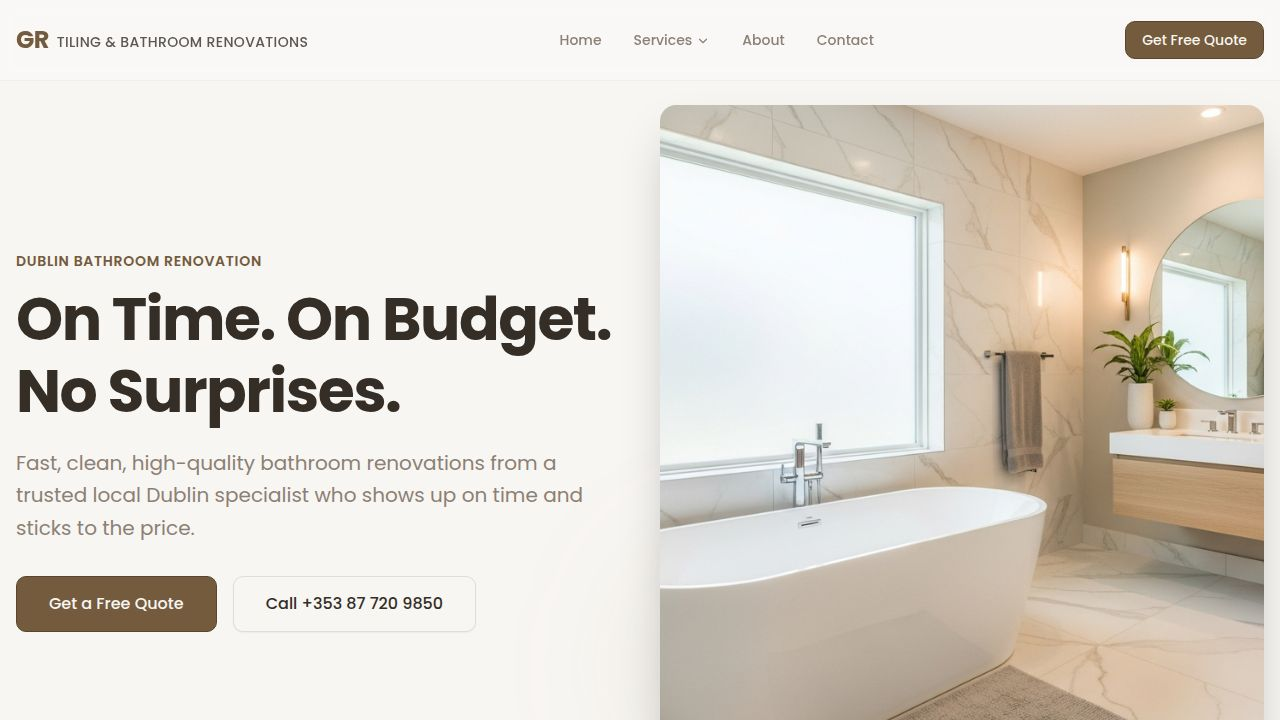
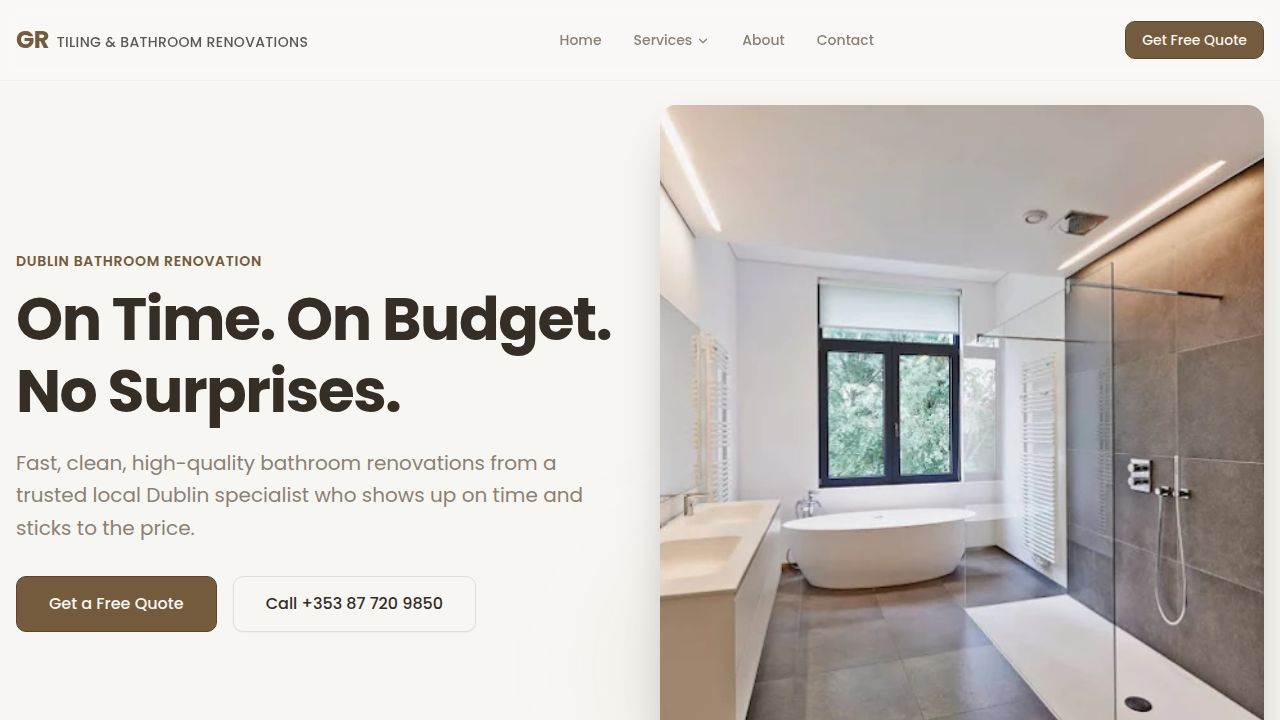
Update bathroom renovation service page to match homepage design and content
Modify the bathroom renovations page to align the 3-step process section with the homepage's design and content, including updated headings, step descriptions, and the addition of a call-to-action button. Also updates image references in `images.ts`.

Replit-Commit-Author: Agent
Replit-Commit-Session-Id: 67377dd3-ca9d-4789-82cf-e5c04204e1b8
Replit-Commit-Checkpoint-Type: full_checkpoint
Replit-Commit-Event-Id: 4ced783d-1e6e-43e8-a7f0-f7ec025661f1
Replit-Commit-Screenshot-Url: https://storage.googleapis.com/screenshot-production-us-central1/60149098-843f-45ab-a59a-f5382d1c21e6/67377dd3-ca9d-4789-82cf-e5c04204e1b8/PuFMFdH
Replit-Helium-Checkpoint-Created: true

diff --git a/artifacts/gr-tiling/src/pages/BathroomRenovationsPage.tsx b/artifacts/gr-tiling/src/pages/BathroomRenovationsPage.tsx
@@ -112,9 +112,9 @@ const faqs: Faq[] = [
 
 
 const processSteps = [
-  { icon: <MessageCircle className="w-10 h-10" />, title: "Tell Us What You Need", text: "Send a few details about your bathroom or renovation idea." },
-  { icon: <FileText className="w-10 h-10" />, title: "Get a Clear Quote", text: "We'll discuss the work, timeline, and price, with no surprises." },
-  { icon: <Wrench className="w-10 h-10" />, title: "We Get to Work", text: "Clean, reliable work completed on time, every time." },
+  { icon: <MessageCircle className="w-10 h-10" />, title: "Plan", text: "Tell us what you need and we'll go through your bathroom, ideas, and budget to get everything clear from the start." },
+  { icon: <FileText className="w-10 h-10" />, title: "Design", text: "We help you choose the right layout, tiles, and finishes so you know exactly what you're getting before work begins." },
+  { icon: <Wrench className="w-10 h-10" />, title: "Build", text: "We complete the full renovation on time, keep everything clean, and deliver a high-quality finish that lasts." },
 ];
 
 const PAGE_TITLE = "Bathroom Renovations Dublin | GR Tiling & Bathroom Renovations";
@@ -319,10 +319,10 @@ export default function BathroomRenovationsPage({ openQuote }: { openQuote: () =
       <section className="py-[60px] md:py-24 bg-secondary/30">
         <div className="container mx-auto px-4 max-w-6xl">
           <div className="text-center mb-8 md:mb-16">
-            <h2 className="font-serif text-3xl md:text-5xl text-foreground mb-6">How Your Renovation Works</h2>
+            <h2 className="font-serif text-3xl md:text-5xl text-foreground mb-6">Your Bathroom Renovation in 3 Simple Steps</h2>
             <div className="w-24 h-1 bg-primary mx-auto rounded-full mb-6"></div>
             <p className="text-lg text-muted-foreground max-w-xl mx-auto">
-              A quick, clear process built for local Dublin homes, from first message to a finished bathroom.
+              A clear, stress-free process from first message to finished bathroom. On time, on budget, no surprises.
             </p>
           </div>
           <div className="relative flex flex-col md:flex-row md:items-start md:justify-between gap-14 md:gap-0">
@@ -339,6 +339,11 @@ export default function BathroomRenovationsPage({ openQuote }: { openQuote: () =
                 <p className="text-muted-foreground leading-relaxed max-w-[220px]">{item.text}</p>
               </div>
             ))}
+          </div>
+          <div className="flex justify-center mt-16">
+            <Button size="lg" className="text-base h-14 px-8" onClick={openQuote}>
+              Get a Free Quote
+            </Button>
           </div>
         </div>
       </section>

diff --git a/artifacts/gr-tiling/src/data/images.ts b/artifacts/gr-tiling/src/data/images.ts
@@ -57,37 +57,37 @@ export const images = {
     },
     services: [
       {
-        src: "/images/gallery-1.png",
+        src: "/images/service-full-reno.webp",
         alt: "Full bathroom renovation in Dublin, complete transformation by GR Tiling & Bathroom Renovations",
       },
       {
-        src: "/images/gallery-3.png",
+        src: "/images/service-layout-upgrade.webp",
         alt: "Bathroom layout upgrade and modern fixture installation Dublin, GR Tiling",
       },
       {
-        src: "/images/gallery-4.png",
+        src: "/images/service-tiling-finishing.webp",
         alt: "Professional floor and wall tiling Dublin, wet rooms and feature walls by GR Tiling",
       },
     ],
     gallery: [
       {
-        src: "/images/gallery-1.png",
+        src: "/images/gallery-bath-1.webp",
         alt: "Modern bathroom renovation with white ceramic tiles and floating vanity, Dublin",
       },
       {
-        src: "/images/gallery-2.png",
+        src: "/images/gallery-bathroom-1.webp",
         alt: "Herringbone floor tiling in warm beige, professional tiling Dublin",
       },
       {
-        src: "/images/gallery-3.png",
+        src: "/images/gallery-shower-2.webp",
         alt: "Walk-in shower with dark marble tiles, bathroom renovation Dublin",
       },
       {
-        src: "/images/gallery-5.png",
+        src: "/images/gallery-bathroom-2.webp",
         alt: "Luxury freestanding bath in renovated bathroom, GR Tiling Dublin",
       },
       {
-        src: "/images/gallery-6.png",
+        src: "/images/gallery-bath-2.webp",
         alt: "Large format rectified tiles with fine grout lines, precision tiling Dublin",
       },
     ],
